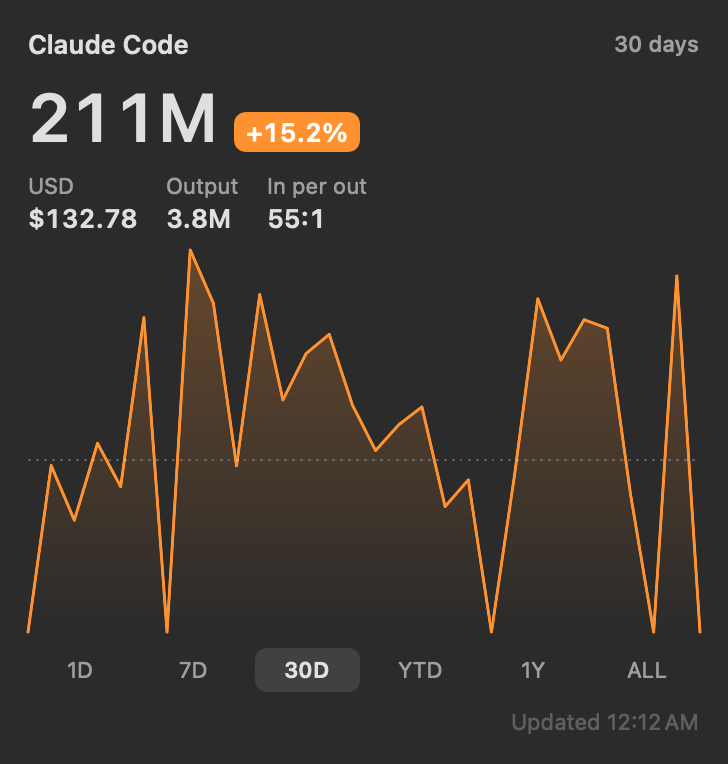
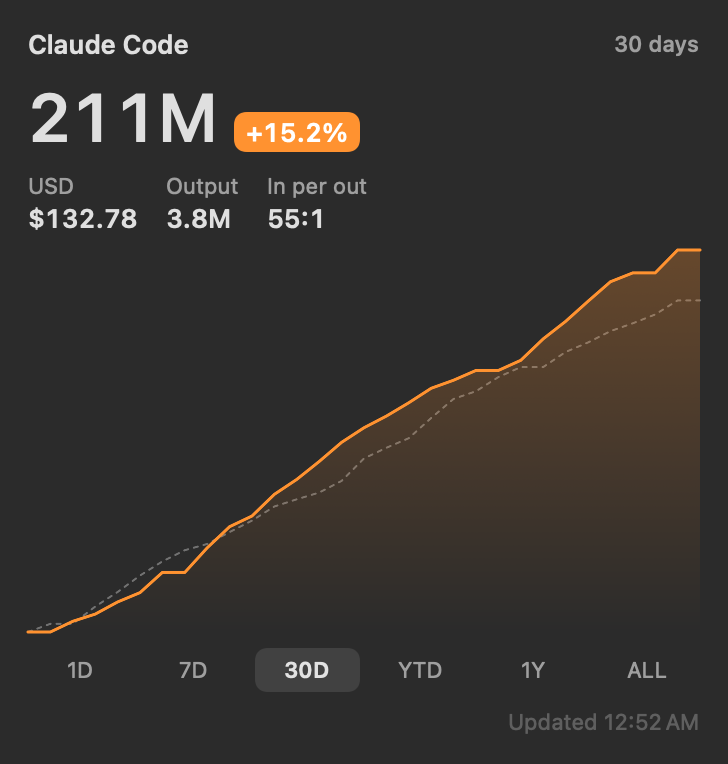
Stock-chart logic: running total ends at the headline, previous period dotted, full-period axis

diff --git a/app/Shared/TickerView.swift b/app/Shared/TickerView.swift
@@ -24,13 +24,6 @@ struct TickerView: View {
         return up ? Color(red: 0.788, green: 0.204, blue: 0) : Color(red: 0.141, green: 0.541, blue: 0.239)
     }
 
-    /// Baseline of the curve, like the previous close of a stock: average per point in the previous period.
-    private func baseline(_ p: Period) -> Double? {
-        guard let c = change, c > -100 else { return nil }
-        let now = unit == .tokens ? Double(p.input) : p.usd
-        return now / (1 + c / 100) / Double(max(p.series.count, 1))
-    }
-
     private var change: Double? {
         unit == .tokens ? p?.change_input : p?.change_usd
     }
@@ -141,7 +134,7 @@ struct TickerView: View {
     }
 
     private func curve(_ p: Period) -> some View {
-        Curve(series: p.series, unit: unit, color: trendColor, baseline: baseline(p))
+        Curve(series: p.series, previous: p.previous, slots: p.slots, unit: unit, color: trendColor)
             .accessibilityLabel("Trend, \(Format.periodName(period))")
     }
 
@@ -208,40 +201,48 @@ struct TickerView: View {
     }
 }
 
-/// Line with a gradient fill. The dotted rule is the average per point in the previous period
-/// (the basis of the change, like a stock's previous close); without a previous period, the own average.
+/// Stock-chart logic: the line is the running total of the period and ends at the headline;
+/// the dotted line is the running total of the previous period on the same axis. The x axis always
+/// covers the whole period, so the line stops at "now".
 struct Curve: View {
     let series: [Point]
+    let previous: [Point]?
+    let slots: Int
     let unit: Unit
     let color: Color
-    let baseline: Double?
 
     @Environment(\.widgetRenderingMode) private var mode
 
+    private func value(_ p: Point) -> Double { unit == .tokens ? Double(p.input) : p.usd }
+
     var body: some View {
-        let values = series.map { unit == .tokens ? Double($0.input) : $0.usd }
-        let mean = values.isEmpty ? 0 : values.reduce(0, +) / Double(values.count)
+        let current: [(Int, Double)] = series.enumerated().map { ($0.offset, value($0.element)) }
+        let ghost: [(Int, Double)] = (previous ?? []).enumerated().map { ($0.offset, value($0.element)) }
+        let top = max(current.map(\.1).max() ?? 0, ghost.map(\.1).max() ?? 0, 1)
         let opacity: Double = mode == .fullColor ? 0.28 : 0.10
         let gradient = LinearGradient(colors: [color.opacity(opacity), color.opacity(0.0)], startPoint: .top, endPoint: .bottom)
-        let points: [(Int, Double)] = Array(values.enumerated())
         Chart {
-            ForEach(points, id: \.0) { p in
-                AreaMark(x: .value("t", p.0), y: .value("v", p.1))
+            ForEach(ghost, id: \.0) { p in
+                LineMark(x: .value("t", p.0), y: .value("v", p.1), series: .value("s", "previous"))
+                    .foregroundStyle(Color.secondary.opacity(0.6))
+                    .lineStyle(StrokeStyle(lineWidth: 1, lineCap: .round, dash: [2, 3]))
+                    .interpolationMethod(.linear)
+            }
+            ForEach(current, id: \.0) { p in
+                AreaMark(x: .value("t", p.0), y: .value("v", p.1), series: .value("s", "current"))
                     .foregroundStyle(gradient)
                     .interpolationMethod(.linear)
-                LineMark(x: .value("t", p.0), y: .value("v", p.1))
+                LineMark(x: .value("t", p.0), y: .value("v", p.1), series: .value("s", "current"))
                     .foregroundStyle(color)
                     .lineStyle(StrokeStyle(lineWidth: 1.5, lineCap: .round, lineJoin: .round))
                     .interpolationMethod(.linear)
             }
-            RuleMark(y: .value("Baseline", baseline ?? mean))
-                .foregroundStyle(Color.secondary.opacity(0.5))
-                .lineStyle(StrokeStyle(lineWidth: 0.8, dash: [1, 3]))
         }
         .widgetAccentable()
         .chartXAxis(.hidden)
         .chartYAxis(.hidden)
-        .chartXScale(domain: 0...max(series.count - 1, 1))
+        .chartXScale(domain: 0...max(slots - 1, 1))
+        .chartYScale(domain: 0...top)
         .chartLegend(.hidden)
     }
 }

diff --git a/app/Shared/Model.swift b/app/Shared/Model.swift
@@ -4,8 +4,8 @@ import Foundation
 /// (Info.plist key `TMAppGroup` = `$(DEVELOPMENT_TEAM).tokenmaccer`).
 let appGroup: String? = Bundle.main.object(forInfoDictionaryKey: "TMAppGroup") as? String
 
+/// One point of a running total.
 struct Point: Codable, Hashable {
-    let t: String
     let input: Int
     let usd: Double
 }
@@ -17,7 +17,12 @@ struct Period: Codable {
     let ratio: Int?
     let change_input: Double?
     let change_usd: Double?
+    /// Running total of this period, starting at 0; the last point equals the headline.
     let series: [Point]
+    /// Running total of the previous period on the same axis (the "previous close" line).
+    let previous: [Point]?
+    /// Number of x positions of the whole period (the line stops at "now", like a stock chart during the day).
+    let slots: Int
     let from: String
     let to: String
 }

diff --git a/collector/collector.py b/collector/collector.py
@@ -266,33 +266,6 @@ def change(now: float, before: float) -> float | None:
     return round((now - before) / before * 100, 1)
 
 
-def metric(s: Sums, previous: Sums | None, series: List[Dict[str, Any]], start: str, end: str) -> Dict[str, Any]:
-    return {
-        'input': round(s['inp']),
-        'output': round(s['out']),
-        'usd': round(s['usd'], 2),
-        'ratio': round(s['inp'] / s['out']) if s['out'] else None,
-        'change_input': change(s['inp'], previous['inp']) if previous else None,
-        'change_usd': change(s['usd'], previous['usd']) if previous else None,
-        'series': series,
-        'from': start,
-        'to': end,
-    }
-
-
-def day_series(totals: Dict[str, Sums], start: dt.date, end: dt.date, step: int = 1) -> List[Dict[str, Any]]:
-    """Points built backwards in steps of `step` days: the last point ends today and is full,
-    only the first one may be partial."""
-    points = []
-    e = end
-    while e >= start:
-        a = max(e - dt.timedelta(days=step - 1), start)
-        s = range_sum(totals, a, e)
-        points.append({'t': a.isoformat(), 'input': round(s['inp']), 'usd': round(s['usd'], 2)})
-        e = a - dt.timedelta(days=1)
-    return points[::-1]
-
-
 def until_now(store: Store, totals: Dict[str, Sums], day: str, now: dt.datetime) -> Sums:
     """Usage of an earlier day from midnight up to the current time of day (current hour pro rata).
     Only if that day has no hourly values at all: the daily total pro rata by elapsed time of day."""
@@ -315,72 +288,164 @@ def add_sums(a: Sums, b: Sums) -> Sums:
     return {k: a[k] + b[k] for k in a}
 
 
-def hourly(store: Store, day: str, now: dt.datetime) -> Tuple[Sums, List[Dict[str, Any]]]:
-    points, s = [], zero()
-    for h in range(24):
-        if day == now.date().isoformat() and h > now.hour:
-            break
-        k = f'{day}T{h:02d}'
-        z = zero()
-        for m, v in store['hours'].get(k, {}).items():
-            z['inp'] += total_input(v)
-            z['out'] += v[1]
-            z['usd'] += usd(m, v)
-        s = add_sums(s, z)
-        points.append({'t': k, 'input': round(z['inp']), 'usd': round(z['usd'], 2)})
-    return s, points
-
-
 def or_none(s: Sums) -> Sums | None:
     return s if s['inp'] else None
 
 
+def cumulative(values: List[Sums]) -> List[Dict[str, Any]]:
+    """Running total, starting with 0 at the beginning of the period (like a price line that starts at the open)."""
+    points: List[Dict[str, Any]] = [{'input': 0, 'usd': 0.0}]
+    run = zero()
+    for v in values:
+        run = add_sums(run, v)
+        points.append({'input': round(run['inp']), 'usd': round(run['usd'], 2)})
+    return points
+
+
+def day_values(totals: Dict[str, Sums], start: dt.date, days: int) -> List[Sums]:
+    return [dict(totals.get((start + dt.timedelta(days=i)).isoformat()) or zero()) for i in range(days)]
+
+
+def hour_values(store: Store, totals: Dict[str, Sums], day: str, hours: int) -> List[Sums]:
+    """Usage per hour of a day; a day without hourly values is spread evenly over 24 hours."""
+    if not any(k.startswith(day + 'T') for k in store['hours']):
+        z = totals.get(day) or zero()
+        return [{k: z[k] / 24 for k in z} for _ in range(hours)]
+    values = []
+    for h in range(hours):
+        z = zero()
+        for m, v in store['hours'].get(f'{day}T{h:02d}', {}).items():
+            z['inp'] += total_input(v)
+            z['out'] += v[1]
+            z['usd'] += usd(m, v)
+        values.append(z)
+    return values
+
+
+def ghost(values: List[Sums], at: int, baseline: Sums | None) -> List[Dict[str, Any]] | None:
+    """Running total of the previous period. At index `at` (now) it carries exactly the value the change
+    is computed against, so line end vs. dotted line at the same x is what the pill says."""
+    if baseline is None:
+        return None
+    points = cumulative(values)
+    points[at] = {'input': round(baseline['inp']), 'usd': round(baseline['usd'], 2)}
+    return points
+
+
+def metric(
+    s: Sums,
+    previous: Sums | None,
+    series: List[Dict[str, Any]],
+    prev_series: List[Dict[str, Any]] | None,
+    slots: int,
+    start: str,
+    end: str,
+) -> Dict[str, Any]:
+    return {
+        'input': round(s['inp']),
+        'output': round(s['out']),
+        'usd': round(s['usd'], 2),
+        'ratio': round(s['inp'] / s['out']) if s['out'] else None,
+        'change_input': change(s['inp'], previous['inp']) if previous else None,
+        'change_usd': change(s['usd'], previous['usd']) if previous else None,
+        'series': series,
+        'previous': prev_series,
+        'slots': slots,
+        'from': start,
+        'to': end,
+    }
+
+
 def widget_data(store: Store, now: dt.datetime | None = None) -> Dict[str, Any]:
+    """Every period is drawn like a stock chart: the line is the running total and ends at the headline,
+    the dotted line is the running total of the previous period, the x axis covers the whole period."""
     now = now or dt.datetime.now()
     today = now.date()
     totals = daily_totals(store)
     days = sorted(totals)
     first = dt.date.fromisoformat(days[0]) if days else today
     r: Dict[str, Any] = {}
-    # 1D: today so far vs. yesterday up to the same time of day
-    s_today, series_today = hourly(store, today.isoformat(), now)
-    prev = until_now(store, totals, (today - dt.timedelta(days=1)).isoformat(), now)
-    r['1D'] = metric(s_today, or_none(prev), series_today, today.isoformat(), today.isoformat())
-    # 7D/30D: n-1 full days plus today so far vs. the same window n days earlier
+
+    # 1D: hours 0-24; today so far vs. yesterday up to the same time of day
+    yesterday = (today - dt.timedelta(days=1)).isoformat()
+    cur = hour_values(store, totals, today.isoformat(), now.hour + 1)
+    s = range_sum(totals, today, today)
+    prev = or_none(until_now(store, totals, yesterday, now))
+    r['1D'] = metric(
+        s,
+        prev,
+        cumulative(cur),
+        ghost(hour_values(store, totals, yesterday, 24), now.hour + 1, prev),
+        25,
+        today.isoformat(),
+        today.isoformat(),
+    )
+
+    # 7D/30D: n days, today so far vs. the same window n days earlier up to the same time of day
     for name, n in (('7D', 7), ('30D', 30)):
         start = today - dt.timedelta(days=n - 1)
         s = range_sum(totals, start, today)
-        prev = add_sums(
-            range_sum(totals, start - dt.timedelta(days=n), today - dt.timedelta(days=n + 1)),
-            until_now(store, totals, (today - dt.timedelta(days=n)).isoformat(), now),
+        prev = or_none(
+            add_sums(
+                range_sum(totals, start - dt.timedelta(days=n), today - dt.timedelta(days=n + 1)),
+                until_now(store, totals, (today - dt.timedelta(days=n)).isoformat(), now),
+            )
         )
-        r[name] = metric(s, or_none(prev), day_series(totals, start, today), start.isoformat(), today.isoformat())
+        r[name] = metric(
+            s,
+            prev,
+            cumulative(day_values(totals, start, n)),
+            ghost(day_values(totals, start - dt.timedelta(days=n), n), n, prev),
+            n + 1,
+            start.isoformat(),
+            today.isoformat(),
+        )
+
+    # YTD: axis Jan 1 - Dec 31, compared with last year up to the same date
     jan1 = dt.date(today.year, 1, 1)
+    year_days = (dt.date(today.year + 1, 1, 1) - jan1).days
+    elapsed = (today - jan1).days + 1
     try:
         ly_end = today.replace(year=today.year - 1)
     except ValueError:  # Feb 29
         ly_end = today.replace(year=today.year - 1, day=28)
-    prev = range_sum(totals, dt.date(today.year - 1, 1, 1), ly_end)
-    start = max(jan1, first)
+    ly_jan1 = dt.date(today.year - 1, 1, 1)
+    prev = or_none(range_sum(totals, ly_jan1, ly_end))
+    ly_days = (jan1 - ly_jan1).days
     r['YTD'] = metric(
         range_sum(totals, jan1, today),
-        or_none(prev),
-        day_series(totals, start, today, 7),
-        start.isoformat(),
+        prev,
+        cumulative(day_values(totals, jan1, elapsed)),
+        ghost(day_values(totals, ly_jan1, ly_days), min(elapsed, ly_days), prev),
+        year_days + 1,
+        jan1.isoformat(),
         today.isoformat(),
     )
+
+    # 1Y: the last 365 days vs. the 365 days before
     y_start = today - dt.timedelta(days=364)
-    prev = range_sum(totals, y_start - dt.timedelta(days=365), y_start - dt.timedelta(days=1))
-    start = max(y_start, first)
+    p_start = y_start - dt.timedelta(days=365)
+    prev = or_none(range_sum(totals, p_start, y_start - dt.timedelta(days=1)))
     r['1Y'] = metric(
         range_sum(totals, y_start, today),
-        or_none(prev),
-        day_series(totals, start, today, 7),
-        start.isoformat(),
+        prev,
+        cumulative(day_values(totals, y_start, 365)),
+        ghost(day_values(totals, p_start, 365), 365, prev),
+        366,
+        y_start.isoformat(),
         today.isoformat(),
     )
+
+    # ALL: since the first recorded day, nothing to compare with
+    n_all = (today - first).days + 1
     r['ALL'] = metric(
-        range_sum(totals, first, today), None, day_series(totals, first, today, 7), first.isoformat(), today.isoformat()
+        range_sum(totals, first, today),
+        None,
+        cumulative(day_values(totals, first, n_all)),
+        None,
+        n_all + 1,
+        first.isoformat(),
+        today.isoformat(),
     )
     return {'updated': now.astimezone().isoformat(timespec='seconds'), 'periods': r, 'order': PERIODS}
 

diff --git a/tests/test_collector.py b/tests/test_collector.py
@@ -295,7 +295,31 @@ class CollectorTest(unittest.TestCase):
         w = self.widget()['periods']['7D']
         self.assertEqual(w['input'], 400)
         self.assertEqual(w['change_input'], 100.0)
-        self.assertEqual(len(w['series']), 7)
+        self.assertEqual(len(w['series']), 8)
+        self.assertEqual(w['slots'], 8)
+
+    def test_line_ends_at_headline_and_ghost_matches_pill(self) -> None:
+        self.write(
+            'a.jsonl',
+            [
+                turn('p1', ts(8, 12), inp=100, cread=0),
+                turn('p2', ts(400, 12), inp=50, cread=0),
+                turn('c1', ts(2, 12), inp=400, cread=0),
+                turn('c2', ts(0), inp=7, cread=0),
+            ],
+        )
+        self.run_collector()
+        for name, p in self.widget()['periods'].items():
+            self.assertEqual(p['series'][0]['input'], 0, name)
+            self.assertEqual(p['series'][-1]['input'], p['input'], f'{name}: line must end at the headline')
+            self.assertLessEqual(len(p['series']), p['slots'], name)
+            values = [x['input'] for x in p['series']]
+            self.assertEqual(values, sorted(values), f'{name}: running total never falls')
+            if p['change_input'] is not None:
+                at = len(p['series']) - 1
+                base = p['previous'][at]['input']
+                self.assertAlmostEqual(p['input'] / base - 1, p['change_input'] / 100, places=2, msg=name)
+        self.assertEqual(self.widget()['periods']['1D']['slots'], 25)
         self.assertEqual(self.widget()['order'], ['1D', '7D', '30D', 'YTD', '1Y', 'ALL'])
 
     def test_empty_install_produces_valid_widget_json(self) -> None:

diff --git a/README.md b/README.md
@@ -14,6 +14,7 @@ A macOS desktop widget that shows your **Claude Code** token usage like a stock 
 ## What it shows
 
 - **Input tokens** as the headline (uncached input + cache reads + cache writes), tap to switch to **USD**.
+- Stock-chart logic: the line is the running total of the period and ends at the headline number; the dotted line is the previous period on the same axis. The axis always covers the whole period (1D: midnight to midnight), so the line stops at "now".
 - Change against the previous period: orange when usage rises, green when it falls. 1D, 7D and 30D compare up to the same time of day, so a half-finished day is not compared with a full one.
 - Output tokens, input per output token, and the estimated cost at API list prices.
 - Period chips (1D · 7D · 30D · YTD · 1Y · ALL) right in the widget; in the small widget, tap the period name.
